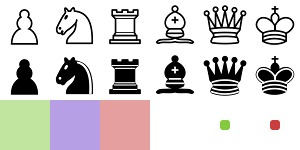
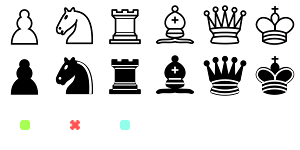
new: castling + minor visual changes

Changed region(s): [[0.0, 0.6667, 0.51, 1.0], [0.72, 0.8, 0.78, 0.88], [0.9, 0.8, 0.96, 0.88]]

diff --git a/js/pieces/move-search.js b/js/pieces/move-search.js
@@ -5,17 +5,18 @@ var MoveSearch = function(board, piece, checksOnly) {
     this._moves = [];
 };
 
-MoveSearch.prototype._willBeCheck = function(move) {
+MoveSearch.prototype._willBeCheck = function(row, col) {
     var changed = Board.getCopy(this._board);
-    if (move.attack) {
-        var piece = changed.getPieceByCoords(move.row, move.col);
+    var piece = changed.getPieceByCoords(row, col);
+    if (piece) {
         changed.removePiece(piece);
     }
-    changed.movePiece(this._piece, move.row, move.col);
-    return changed.isCheck(this._piece.getColor());
+    changed.movePiece(this._piece, row, col);
+    var color = this._piece.getColor();
+    return changed.isCheck(color);
 };
 
-MoveSearch.prototype._iterate = function(row, col, extra) {
+MoveSearch.prototype._checkMove = function(row, col, extra) {
     var field = this._board.getField();
     if (!(row in field)) {
         return false;
@@ -28,8 +29,8 @@ MoveSearch.prototype._iterate = function(row, col, extra) {
         if (extra && extra != 'move') {
             return false;
         }
-        var move = {row: row, col: col};
-        if (!this._checksOnly && !this._willBeCheck(move)) {
+        if (!this._checksOnly && !this._willBeCheck(row, col)) {
+            var move = {row: row, col: col, type: 'move'};
             this._moves.push(move);
         }
         return true;
@@ -39,11 +40,11 @@ MoveSearch.prototype._iterate = function(row, col, extra) {
             return false;
         }
         if (piece.getType() == Piece.TYPES.KING) {
-            this._moves.push({row: row, col: col, check: true});
+            this._moves.push({row: row, col: col, type: 'check'});
             return false;
         }
-        var move = {row: row, col: col, attack: true};
-        if (!this._checksOnly && !this._willBeCheck(move)) {
+        if (!this._checksOnly && !this._willBeCheck(row, col)) {
+            var move = {row: row, col: col, type: 'attack'};
             this._moves.push(move);
         }
         return false;
@@ -51,8 +52,67 @@ MoveSearch.prototype._iterate = function(row, col, extra) {
     return false;
 };
 
+MoveSearch.prototype._addPawnExtraMoves = function(row, col) {
+    
+};
+
+MoveSearch.prototype._canCastling = function(row, col, type) {
+    if (this._board.isMoved(this._piece)) {
+        return null;
+    }
+    var corner = (type == 'long') ? 0 : 7;
+    var piece = this._board.getPieceByCoords(row, corner);
+    if (!piece) {
+        return false;
+    }
+    if (piece.getColor() != this._piece.getColor()) {
+        return false;
+    }
+    if (piece.getType() != Piece.TYPES.ROOK) {
+        return false;
+    }
+    if (this._board.isMoved(piece)) {
+        return false;
+    }
+    var step = (type == 'long') ? -1 : 1;
+    for (var i = col + step; i != corner; i += step) {
+        if (this._board.getPieceByCoords(row, i)) {
+            return false;
+        }
+    }
+    for (var i = col + step, j = 0; j < 2; i += step, j += 1) {
+        if (this._willBeCheck(row, i)) {
+            return false;
+        }
+    }
+    return true;
+};
+
+MoveSearch.prototype._addKingExtraMoves = function() {
+    var coords = this._board.getPieceCoords(this._piece);
+    if (this._canCastling(coords.row, coords.col, 'long')) {
+        var move = {row: coords.row, col: 2, type: 'long-castling'};
+        this._moves.push(move);
+    }
+    if (this._canCastling(coords.row, coords.col, 'short')) {
+        var move = {row: coords.row, col: 6, type: 'short-castling'};
+        this._moves.push(move);
+    }
+};
+
+MoveSearch.prototype._addExtraMoves = function() {
+    var type = this._piece.getType();
+    if (type == Piece.TYPES.PAWN) {
+        this._addPawnExtraMoves();
+    }
+    if (type == Piece.TYPES.KING) {
+        this._addKingExtraMoves();
+    }
+};
+
 MoveSearch.prototype.get = function() {
     var coords = this._board.getPieceCoords(this._piece);
-    this._piece.iterateCells(coords.row, coords.col, $.proxy(this._iterate, this));
+    this._piece.iterateMoves(coords.row, coords.col, $.proxy(this._checkMove, this));
+    this._addExtraMoves();
     return this._moves;
 };

diff --git a/js/pieces/piece.js b/js/pieces/piece.js
@@ -42,6 +42,10 @@ Piece.prototype.getType = function() {
     throw new Error('not implemented');
 };
 
+Piece.prototype.iterateMoves = function(row, col, callback) {
+    throw new Error('not implemented');
+};
+
 var Pawn = function() {
     Piece.apply(this, arguments);
 };
@@ -51,7 +55,7 @@ Pawn.prototype.getType = function() {
     return Piece.TYPES.PAWN;
 };
 
-Pawn.prototype.iterateCells = function(row, col, callback) {
+Pawn.prototype.iterateMoves = function(row, col, callback) {
     if (this.getColor() == Piece.COLORS.WHITE) {
         callback(row - 1, col, 'move');
         if (row == 6) {
@@ -78,7 +82,7 @@ Knight.prototype.getType = function() {
     return Piece.TYPES.KNIGHT;
 };
 
-Knight.prototype.iterateCells = function(row, col, callback) {
+Knight.prototype.iterateMoves = function(row, col, callback) {
     var offsets = [[-2, -1], [-2, 1], [-1, -2], [-1, 2], [1, -2], [1, 2], [2, -1], [2, 1]];
     for (var i in offsets) {
         var offset = offsets[i];
@@ -95,7 +99,7 @@ Rook.prototype.getType = function() {
     return Piece.TYPES.ROOK;
 };
 
-Rook.prototype.iterateCells = function(row, col, callback) {
+Rook.prototype.iterateMoves = function(row, col, callback) {
     for (var i = col - 1; i >= 0; i -= 1) {
         if (!callback(row, i)) {
             break;
@@ -127,7 +131,7 @@ Bishop.prototype.getType = function() {
     return Piece.TYPES.BISHOP;
 };
 
-Bishop.prototype.iterateCells = function(row, col, callback) {
+Bishop.prototype.iterateMoves = function(row, col, callback) {
     for (var i = row - 1, j = col - 1; i >= 0, j >= 0; i -= 1, j -= 1) {
         if (!callback(i, j)) {
             break;
@@ -159,7 +163,7 @@ Queen.prototype.getType = function() {
     return Piece.TYPES.QUEEN;
 };
 
-Queen.prototype.iterateCells = function(row, col, callback) {
+Queen.prototype.iterateMoves = function(row, col, callback) {
     for (var i = col - 1; i >= 0; i -= 1) {
         if (!callback(row, i)) {
             break;
@@ -211,7 +215,7 @@ King.prototype.getType = function() {
     return Piece.TYPES.KING;
 };
 
-King.prototype.iterateCells = function(row, col, callback) {
+King.prototype.iterateMoves = function(row, col, callback) {
     var offsets = [[-1, -1], [-1, 0], [-1, 1], [0, -1], [0, 1], [1, -1], [1, 0], [1, 1]];
     for (var i in offsets) {
         var offset = offsets[i];

diff --git a/js/board/board-view.js b/js/board/board-view.js
@@ -27,7 +27,7 @@ BoardView.prototype._createField = function() {
 };
 
 BoardView.prototype._clearField = function() {
-    this._node.find('.move,.attack').remove();
+    this._node.find('.move,.attack,.long-castling,.short-castling').remove();
     this._node.find('.chosen,.check,.checkmate,.stalemate').removeClass('chosen check checkmate stalemate');
 };
 
@@ -97,12 +97,12 @@ BoardView.prototype._showAvailableMoves = function(row, col) {
     var moves = search.get();
     for (var i in moves) {
         var move = moves[i];
-        if (move.check) {
-            continue;
+        var cell = this._getCell(move.row, move.col);
+        var type = move.type;
+        if (type != 'check') {
+            var node = $('<div class="icon ' + type + '"></div>');
+            cell.append(node);
         }
-        var cell = this._getCell(move.row, move.col);;
-        var node = $('<div class="icon ' + (move.attack ? 'attack' : 'move') + '"></div>');
-        cell.append(node);
     }
 };
 
@@ -117,6 +117,10 @@ BoardView.prototype._addClickListener = function() {
             this._showAvailableMoves(row, col);
         }
         var piece = this._board.getPieceByCoords(this._piece.row, this._piece.col);
+        var types = ['move', 'attack', 'long-castling', 'short-castling'];
+        for (var i in types) {
+            var type = types[i];
+        }
         if (element.hasClass('move')) {
             this.emit('move', function() {
                 return [piece, row, col];
@@ -125,6 +129,16 @@ BoardView.prototype._addClickListener = function() {
         if (element.hasClass('attack')) {
             this.emit('attack', function() {
                 return [piece, row, col];
+            });
+        }
+        if (element.hasClass('long-castling')) {
+            this.emit('castling', function() {
+                return [piece, 'long'];
+            });
+        }
+        if (element.hasClass('short-castling')) {
+            this.emit('castling', function() {
+                return [piece, 'short'];
             });
         }
     }, this));    

diff --git a/js/game.js b/js/game.js
@@ -37,11 +37,28 @@ Game.prototype._onAttackPiece = function(piece, row, col) {
     });
 };
 
+Game.prototype._onCastling = function(piece, length) {
+    if (!this._players.canPlay(piece.getColor())) {
+        return;
+    }
+    this._players.lock();
+    this._players.checkForNewPlayer();
+    this.emit('update', function() {
+        return [{
+            type: 'castling',
+            color: piece.getColor(),
+            length: length
+        }];
+    });
+};
+
 Game.prototype._initBoard = function() {
     this._board = new Board();
     var view = new BoardView(this._board);
     view.on('move', $.proxy(this._onMovePiece, this));
     view.on('attack', $.proxy(this._onAttackPiece, this));
+    view.on('castling', $.proxy(this._onCastling, this));
+    
 };
 
 Game.prototype._onNewPlayer = function(color, player) {
@@ -90,6 +107,19 @@ Game.prototype.update = function(update) {
         this._board.removePiece(victim);
         var attacker = this._board.getPieceByCoords(update.from.row, update.from.col);
         this._board.movePiece(attacker, update.to.row, update.to.col);
+        this._players.turn();
+    }
+    if (update.type == 'castling') {
+        var king = this._board.getPieceByColorAndType(update.color, Piece.TYPES.KING);
+        var coords = this._board.getPieceCoords(king);
+        var rook = this._board.getPieceByCoords(coords.row, update.length == 'long' ? 0 : 7);
+        if (update.length == 'long') {
+            this._board.movePiece(king, coords.row, 2);
+            this._board.movePiece(rook, coords.row, 3);
+        } else {
+            this._board.movePiece(king, coords.row, 6);
+            this._board.movePiece(rook, coords.row, 5);
+        }
         this._players.turn();
     }
 };

diff --git a/css/styles.css b/css/styles.css
@@ -41,16 +41,36 @@
     position: relative;
 }
 
-.board .row:nth-child(even) .cell:nth-child(even), .row:nth-child(odd) .cell:nth-child(odd) {
+.board .row:nth-child(even) .cell:nth-child(even),
+.row:nth-child(odd) .cell:nth-child(odd) {
     background: #ffce9e;
 }
 
-.board .row:nth-child(even) .cell:nth-child(odd), .row:nth-child(odd) .cell:nth-child(even) {
+.board .row:nth-child(even) .cell:nth-child(odd),
+.row:nth-child(odd) .cell:nth-child(even) {
     background: #d18b47;
 }
 
-.board .piece, .move, .attack {
+.board .piece,
+.board .move,
+.board .attack,
+.board .long-castling,
+.board .short-castling {
     cursor: pointer;
+}
+
+.board .move,
+.board .attack,
+.board .long-castling,
+.board .short-castling {
+    opacity: 0.5;
+}
+
+.board .move:hover,
+.board .attack:hover,
+.board .long-castling:hover,
+.board .short-castling:hover {
+    opacity: 1;
 }
 
 .board .white.pawn {
@@ -118,11 +138,16 @@
 }
 
 .board .move {
-    background-position: -200px -100px;
+    background-position: 0 -100px;
 }
 
 .board .attack {
-    background-position: -250px -100px;
+    background-position: -50px -100px;
+}
+
+.board .long-castling,
+.board .short-castling {
+    background-position: -100px -100px;
 }
 
 .players {

diff --git a/js/board/board.js b/js/board/board.js
@@ -2,6 +2,7 @@ var Board = function() {
     EventEmitter.mixin(this);
     this._field = null;
     this._pieces = null;
+    this._moved = [];
     this._createField();
 };
 
@@ -49,6 +50,9 @@ Board.prototype.movePiece = function(piece, row, col) {
     });
     info.row = row;
     info.col = col;
+    if (!this.isMoved(piece)) {
+        this._moved.push(piece);
+    }
     this.emit('place', function() {
         return [row, col, piece];
     });
@@ -112,6 +116,10 @@ Board.prototype.getPieceCoords = function(piece) {
     var id = piece.getId();
     var info = this._pieces[id];
     return {row: info.row, col: info.col};
+};
+
+Board.prototype.isMoved = function(piece) {
+    return $.inArray(piece, this._moved) != -1;
 };
 
 Board.prototype.getField = function() {
